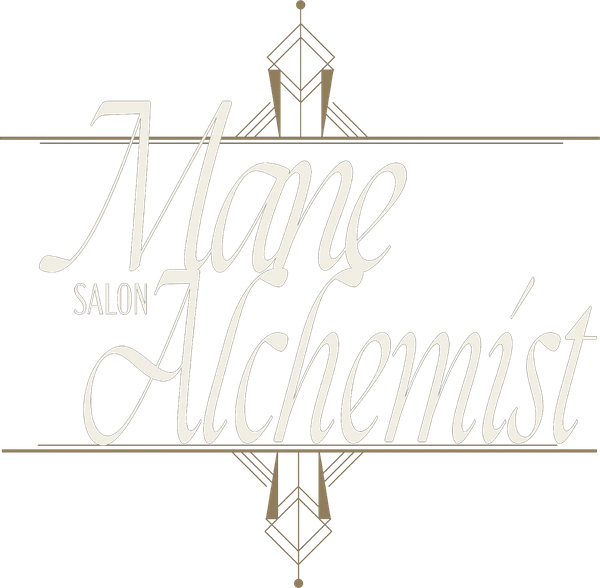
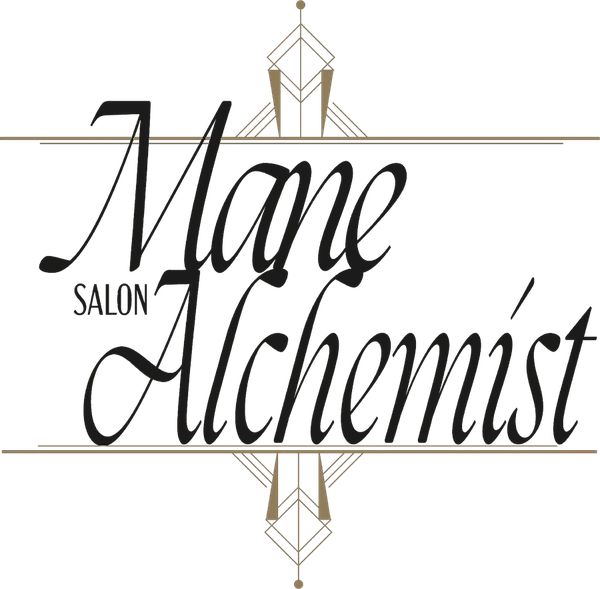
The fields come off the client marks
The coloured field was doing one job: giving Mane Alchemist's lockup something
to sit on, because it is drawn cream on black and disappears on Surface. Two
of the three never needed it. So instead of a field, that mark is repainted in
Mane's own Foundation ink with the gold motif untouched, which is the positive
version of a lockup already delivered reversed. There is no background, no
border and no corner anywhere in the section now.

The marks are matched on area. They are a square and two roughly 2:1 lockups,
so matching widths made Mane twice as tall as the other two and matching
heights made it a postage stamp beside a 17rem SRS. Each case carries its own
solved height and they land within seven percent of each other.

Mobile was the sizing model. The mark had width 100% inside a cell on 1fr, so
the box was wider than the ink twice over, and the letterboxing opened a void
between the mark and the phone next to it. Height drives and width follows
now, both cells shrink to their contents, and the pair centres as a pair.

Changed region(s): [[0.06, 0.1531, 1.0, 0.7653], [0.87, 0.4592, 0.9, 0.5204], [0.15, 0.3367, 0.18, 0.398]]

diff --git a/assets/css/site.css b/assets/css/site.css
@@ -2144,26 +2144,32 @@ main > * { position: relative; z-index: 1; }
    businesses that look exactly like each other. Each board is taken apart
    instead, and put back together in the guide's own language.
 
-   The first build of this block set every mark on the board's own panel,
-   which meant a hard bordered box each time and a near black one for Mane
-   Alchemist. Three bordered boxes in a column is blocky, and the black one
-   reads gothic on a page that is Surface from top to bottom. So:
+   This block has been through three shapes. First every mark sat on the
+   board's own panel inside a 1px border: three hard boxes in a column, one
+   of them near black, which read gothic on a page that is Surface from top
+   to bottom. Then the panels were keyed out and each mark was given a soft
+   field in its client's own colour, which fixed the borders and kept a
+   coloured rectangle. There is no rectangle now at all.
 
-   - the panels are keyed out and the marks are transparent;
-   - each mark sits on a soft field drawn from that client's OWN palette,
-     no border, generous padding, a small radius. Nothing on this page is a
-     hard edged box any more;
-   - the shipped page hangs below its field rather than sitting beside it in
-     a third column, so the row has a silhouette instead of a grid;
-   - the field and the copy swap sides down the run, so three cases do not
-     land as three identical stamps;
-   - the palette is circles with air between them, the way the client boards
-     draw it, not a flush bar of colour;
-   - and the cases are parted by the guide's divider, a hairline with the
-     four point mark at its centre.
+   - The marks are transparent and sit directly on the page. Nothing in this
+     section has a background, a border or a corner.
+   - Mane Alchemist's lockup is drawn cream on black, so on Surface it had
+     nothing to sit on and that is the only reason it ever had a field. It is
+     repainted in its own Foundation ink instead, gold motif untouched: the
+     positive version of a lockup already delivered reversed, which is what a
+     brand kit contains. See the note in HANDOFF before touching it.
+   - The shipped page floats beside the mark on its own shadow, the one drop
+     shadow on the site, and that is what keeps three marks on an empty
+     ground from reading as clip art.
+   - The mark and the copy swap sides down the run, so three cases do not
+     land as three identical stamps.
+   - The palette is circles with air between them, the way the client boards
+     draw it, not a flush bar of colour.
+   - The cases are parted by the guide's divider, a hairline with the four
+     point mark at its centre.
 
-   The board's ratio still holds around all of it: the page stays Surface,
-   and the client colour is the only saturated thing in the section. */
+   The board's ratio holds: the page stays Surface, and the client's own ink
+   is the only colour in the section. */
 .cases { display: grid; }
 .case {
   display: grid;
@@ -2174,42 +2180,50 @@ main > * { position: relative; z-index: 1; }
 @media (min-width: 56rem) {
   .case { grid-template-columns: minmax(0, 1.08fr) minmax(0, 1fr); column-gap: clamp(var(--s-6), 6vw, var(--s-8)); }
   /* every other case turns over. Same components, other hand. */
-  .case--flip .case-plate { order: 2; }
+  .case--flip .case-show { order: 2; }
 }
 
-/* The field. Its colour is set per case from that client's own palette, so
-   the only saturated thing in this section belongs to the client. */
-.case-plate {
-  position: relative;
-  background: var(--plate, var(--field));
-  border-radius: 5px;
+/* The mark and the page it produced, on nothing. */
+/* Both cells shrink to their contents and the pair centres as a pair. With
+   the mark cell on 1fr it absorbed every spare pixel, the mark centred inside
+   that stretched cell, and a void opened between the mark and the phone. It
+   is most of what was wrong on a narrow screen. */
+.case-show {
   display: grid;
-  grid-template-columns: minmax(0, 1fr) auto;
+  grid-template-columns: minmax(0, auto) auto;
+  justify-content: center;
   align-items: center;
-  gap: clamp(var(--s-4), 3.5vw, var(--s-6));
-  --pad: clamp(var(--s-5), 4vw, 3.5rem);
-  padding: var(--pad);
+  gap: clamp(var(--s-4), 4vw, var(--s-7));
 }
-.case-mark { margin: 0; display: grid; place-items: center; }
-.case-mark img { width: 100%; max-width: 19rem; height: auto; }
+/* Three lockups of three different shapes: Mane Alchemist is square, because
+   its deco motif runs the full height behind the wordmark, and the other two
+   are roughly 2:1. Matching their WIDTHS made Mane twice as tall as the rest.
+   Matching their HEIGHTS made it a postage stamp beside a 17rem SRS. Neither
+   is the right invariant.
 
-/* The page that shipped, hanging past the foot of the field. This is the one
-   thing in the section that breaks its own container, and it is what stops
-   the run reading as a stack of rectangles. */
+   What has to match is the area each one covers, so every case carries its
+   own --mark-h, solved from h = sqrt(A / aspect) against a shared A and then
+   rounded to something that looks right. Retune the case, not this rule. */
+.case-mark { margin: 0; display: grid; place-items: center; }
+.case-mark img {
+  /* height drives, width follows from the artwork's own proportion. A width
+     of 100% made the box wider than the ink and letterboxed every mark. */
+  width: auto; height: var(--mark-h, 6.25rem);
+  max-width: 100%;
+  object-fit: contain; object-position: center;
+}
+
+/* The page that shipped. The only DROP shadow on the site, the swatch rings
+   below being inset hairlines rather than shadows: with the field gone there
+   is nothing else holding these two objects in front of the page, and a
+   screenshot lying perfectly flat on Surface reads as a picture of a phone
+   rather than a thing that is running. */
 .case-screen {
   margin: 0;
-  align-self: end;
-  width: clamp(4.75rem, 9.5vw, 7rem);
-  /* it clears the field's own padding and then hangs a fixed distance past
-     it. Two independent clamps were leaving a 30px overhang at 1024 and a
-     4px one on a phone, which is not an overhang, it is a rounding error. */
-  margin-bottom: calc((var(--pad) + clamp(1rem, 2vw, 1.75rem)) * -1);
-  border-radius: 4px;
+  width: clamp(5.5rem, 10.5vw, 7.75rem);
+  border-radius: 5px;
   overflow: hidden;
-  /* the only shadow on the site. It is here because a page lying flat on a
-     field of its own brand colour reads as printed on it rather than held
-     in front of it, and the whole point of the object is that it shipped. */
-  box-shadow: 0 1.25rem 2.25rem -0.9rem rgba(7, 26, 31, .45);
+  box-shadow: 0 1.15rem 2.25rem -1rem rgba(7, 26, 31, .38);
 }
 .case-screen img { width: 100%; height: auto; }
 
@@ -2239,8 +2253,11 @@ main > * { position: relative; z-index: 1; }
 .case-div svg path { fill: currentColor; }
 
 @media (max-width: 55.99rem) {
-  .case-plate { gap: var(--s-4); --pad: var(--s-5); }
-  .case-mark img { max-width: 13rem; }
+  .case-show { gap: var(--s-4); }
+  .case-screen { width: clamp(4.25rem, 16vw, 5.75rem); }
+  /* the mark and the page it produced read as one object on a phone, so the
+     copy follows closer than the run's own rhythm would put it */
+  .case { gap: var(--s-5); padding-block: clamp(var(--s-6), 9vw, var(--s-7)); }
 }
 
 

diff --git a/the-build/index.html b/the-build/index.html
@@ -32,7 +32,7 @@
 <link rel="preconnect" href="https://fonts.googleapis.com">
 <link rel="preconnect" href="https://fonts.gstatic.com" crossorigin>
 <link rel="stylesheet" href="https://fonts.googleapis.com/css2?family=IBM+Plex+Mono:wght@400&family=Instrument+Sans:wght@400;500&family=Instrument+Serif:ital@0;1&display=swap">
-<link rel="stylesheet" href="../assets/css/site.css?v=305fb370">
+<link rel="stylesheet" href="../assets/css/site.css?v=de8c308a">
 <script>document.documentElement.className += " js-motion";</script>
 
 <!-- Machine readable, so an assistant quoting a price quotes the right one.
@@ -287,8 +287,8 @@
     </div>
 
     <div class="cases">
-      <article class="case r-up" style="--plate:#1C5128">
-        <div class="case-plate">
+      <article class="case r-up" style="--mark-h:clamp(7.5rem, 13vw, 10.5rem)">
+        <div class="case-show">
           <figure class="case-mark">
             <img src="../assets/img/work/mane-alchemist-mark-600.webp"
                  srcset="../assets/img/work/mane-alchemist-mark-600.webp 600w, ../assets/img/work/mane-alchemist-mark-900.webp 900w"
@@ -313,8 +313,8 @@
         </div>
       </article>
       <div class="case-div" aria-hidden="true"><svg viewBox="0 0 24 24" aria-hidden="true" focusable="false"><path d="M12 1.5c.55 5.3 4.7 9.45 10 10-5.3.55-9.45 4.7-10 10-.55-5.3-4.7-9.45-10-10 5.3-.55 9.45-4.7 10-10z"/></svg></div>
-      <article class="case case--flip r-up" style="--plate:#F6F5F7">
-        <div class="case-plate">
+      <article class="case case--flip r-up" style="--mark-h:clamp(5.4rem, 8.9vw, 7.2rem)">
+        <div class="case-show">
           <figure class="case-mark">
             <img src="../assets/img/work/srs-performance-mark-600.webp"
                  srcset="../assets/img/work/srs-performance-mark-600.webp 600w, ../assets/img/work/srs-performance-mark-900.webp 900w"
@@ -339,8 +339,8 @@
         </div>
       </article>
       <div class="case-div" aria-hidden="true"><svg viewBox="0 0 24 24" aria-hidden="true" focusable="false"><path d="M12 1.5c.55 5.3 4.7 9.45 10 10-5.3.55-9.45 4.7-10 10-.55-5.3-4.7-9.45-10-10 5.3-.55 9.45-4.7 10-10z"/></svg></div>
-      <article class="case r-up" style="--plate:#E8D5C4">
-        <div class="case-plate">
+      <article class="case r-up" style="--mark-h:clamp(5.7rem, 9.4vw, 7.6rem)">
+        <div class="case-show">
           <figure class="case-mark">
             <img src="../assets/img/work/solyrey-mark-600.webp"
                  srcset="../assets/img/work/solyrey-mark-600.webp 600w, ../assets/img/work/solyrey-mark-900.webp 900w"
@@ -681,6 +681,6 @@
   </div>
 </footer>
 
-<script src="../assets/js/site.js?v=305fb370" defer></script>
+<script src="../assets/js/site.js?v=de8c308a" defer></script>
 </body>
 </html>

diff --git a/about/index.html b/about/index.html
@@ -25,7 +25,7 @@
 <link rel="preconnect" href="https://fonts.googleapis.com">
 <link rel="preconnect" href="https://fonts.gstatic.com" crossorigin>
 <link rel="stylesheet" href="https://fonts.googleapis.com/css2?family=IBM+Plex+Mono:wght@400&family=Instrument+Sans:wght@400;500&family=Instrument+Serif:ital@0;1&display=swap">
-<link rel="stylesheet" href="../assets/css/site.css?v=305fb370">
+<link rel="stylesheet" href="../assets/css/site.css?v=de8c308a">
 <script>document.documentElement.className += " js-motion";</script>
 
 <script type="application/ld+json">
@@ -404,6 +404,6 @@
   </div>
 </footer>
 
-<script src="../assets/js/site.js?v=305fb370" defer></script>
+<script src="../assets/js/site.js?v=de8c308a" defer></script>
 </body>
 </html>

diff --git a/index.html b/index.html
@@ -48,7 +48,7 @@
 <link rel="preconnect" href="https://fonts.googleapis.com">
 <link rel="preconnect" href="https://fonts.gstatic.com" crossorigin>
 <link rel="stylesheet" href="https://fonts.googleapis.com/css2?family=IBM+Plex+Mono:wght@400&family=Instrument+Sans:wght@400;500&family=Instrument+Serif:ital@0;1&display=swap">
-<link rel="stylesheet" href="assets/css/site.css?v=305fb370">
+<link rel="stylesheet" href="assets/css/site.css?v=de8c308a">
 <script>document.documentElement.className += " js-motion";</script>
 
 <script type="application/ld+json">
@@ -887,6 +887,6 @@
   </div>
 </footer>
 
-<script src="assets/js/site.js?v=305fb370" defer></script>
+<script src="assets/js/site.js?v=de8c308a" defer></script>
 </body>
 </html>

diff --git a/HANDOFF.md b/HANDOFF.md
@@ -237,17 +237,33 @@ on the board's own panel inside a 1px border: three hard boxes in a column, one 
 black, on a page that is Surface from top to bottom. It has been rebuilt in the guide's own
 language and the current rules are:
 
-- **The panels are keyed out and the marks are transparent.** Each mark now sits on a soft
-  field taken from *that client's own palette* — Mane Alchemist on its primary green `#1C5128`
-  rather than the board's black, SolyRey on its `#E8D5C4` sand, SRS Performance on `#F6F5F7`.
-  SRS's own light neutral is `#DFDEE0`, which is four values off this section's `#DCE4E1`
-  ground and vanished into it; do not "correct" it back.
-- **No borders anywhere in the section.** Soft radius, generous padding.
-- **The shipped page hangs past the foot of its field**, a fixed `clamp(1rem, 2vw, 1.75rem)`
-  below it, computed off the field's own `--pad` so the overhang is the same at every width.
-  It carries the only shadow on the site: a page lying flat on a field of its own brand colour
-  reads as printed on it, and the point of the object is that it shipped.
-- **The field and the copy swap sides down the run** (`.case--flip`), so three cases do not
+There was then a second pass, because the coloured fields went too. **There is no rectangle in
+this section at all now** — no background, no border, no corner. The marks are transparent and
+sit directly on the page.
+
+- **Mane Alchemist's mark is repainted and this is the one thing here to check with Cydnie.**
+  Its lockup is drawn cream-on-black, so on Surface it has nothing to sit on, and that is the
+  only reason that case ever had a field. The script is repainted in Mane's own Foundation
+  `#1C1B1A` and **the gold motif is untouched**, so the two-tone survives and only the
+  colourway changes. It is the positive version of a lockup delivered reversed, which is what
+  a brand kit contains — but it is still that client's artwork altered for presentation. If
+  she would rather it stayed cream, the answer is to give that one case its field back.
+  Pixels are classified by saturation: `sat < 0.16 and max > 120` is the script, everything
+  else is the motif.
+- **The shipped page floats beside the mark on the one drop shadow on the site.** With the
+  field gone nothing else holds these two objects in front of the page, and a screenshot lying
+  flat on Surface reads as a picture of a phone rather than a thing that is running. The
+  swatch rings are inset hairlines, not shadows.
+- **Marks are matched on AREA, not width and not height.** These are a square and two roughly
+  2:1 lockups. Matching widths made Mane twice as tall as the others; matching heights made it
+  a postage stamp beside a 17rem SRS. Each case carries its own `--mark-h`, solved from
+  `h = sqrt(A / aspect)` and rounded by eye; they land within 7% of each other. Retune the
+  case, never the rule.
+- The mark's **height drives and width follows** (`width: auto`). `width: 100%` made the box
+  wider than the ink, and on a phone that letterboxing opened a visible void between the mark
+  and the phone beside it. For the same reason `.case-show` is `minmax(0, auto) auto` with
+  `justify-content: center`: on `1fr` the mark cell absorbed every spare pixel.
+- **The mark and the copy swap sides down the run** (`.case--flip`), so three cases do not
   land as three identical stamps.
 - **The palette is circles with air between them**, the way the client boards draw it. The
   flush bar of colour it replaced was the blockiest thing on the page.
